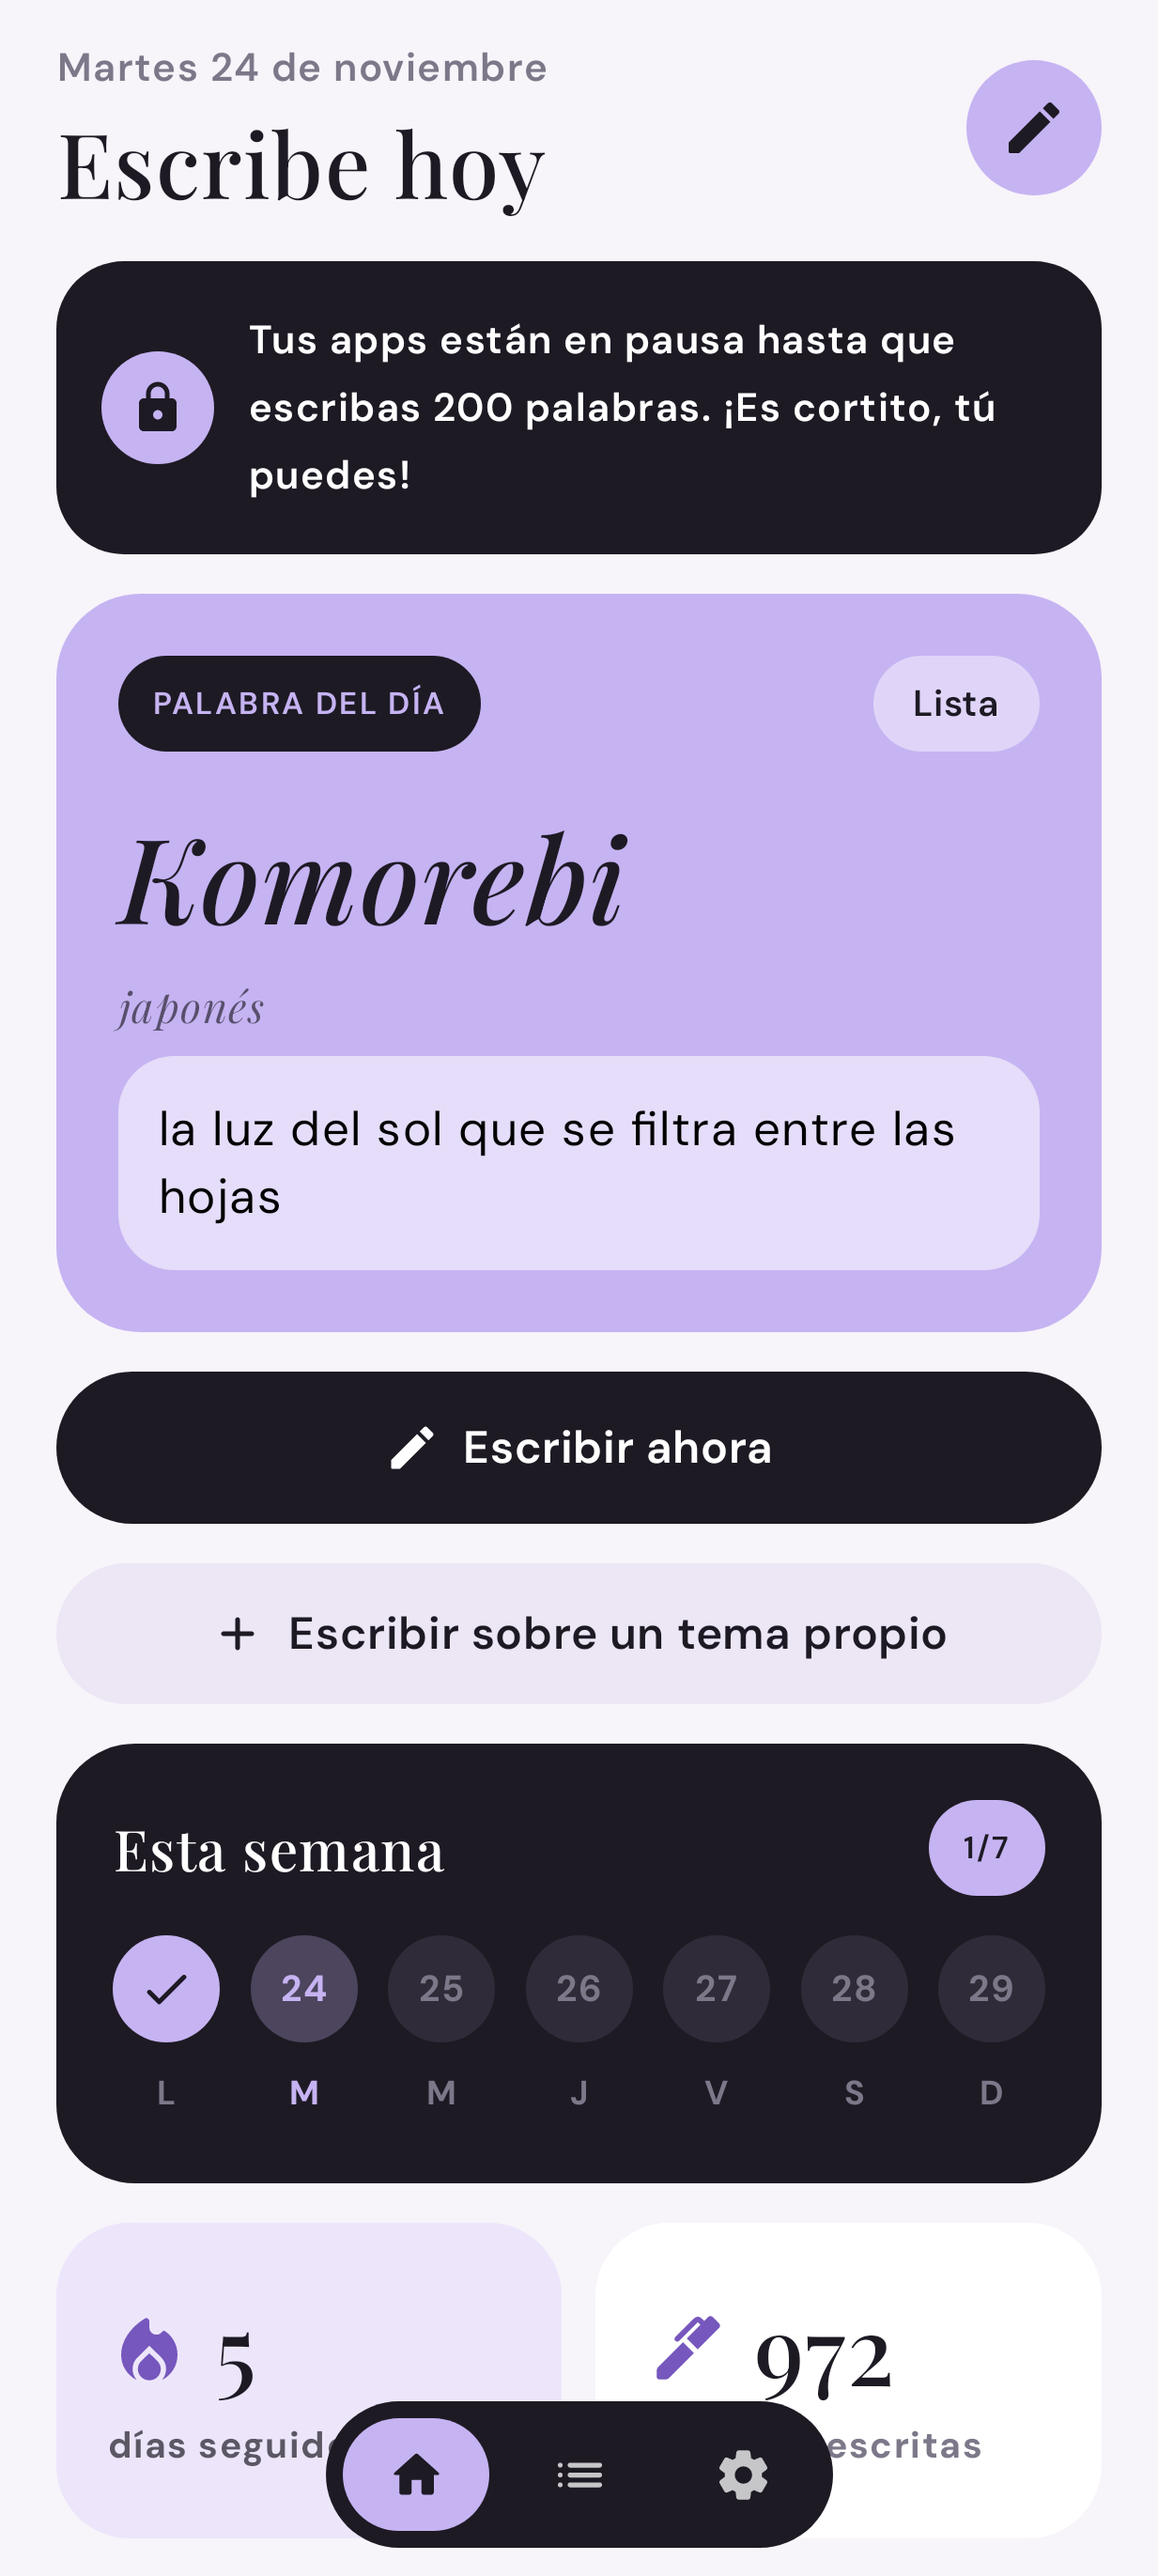
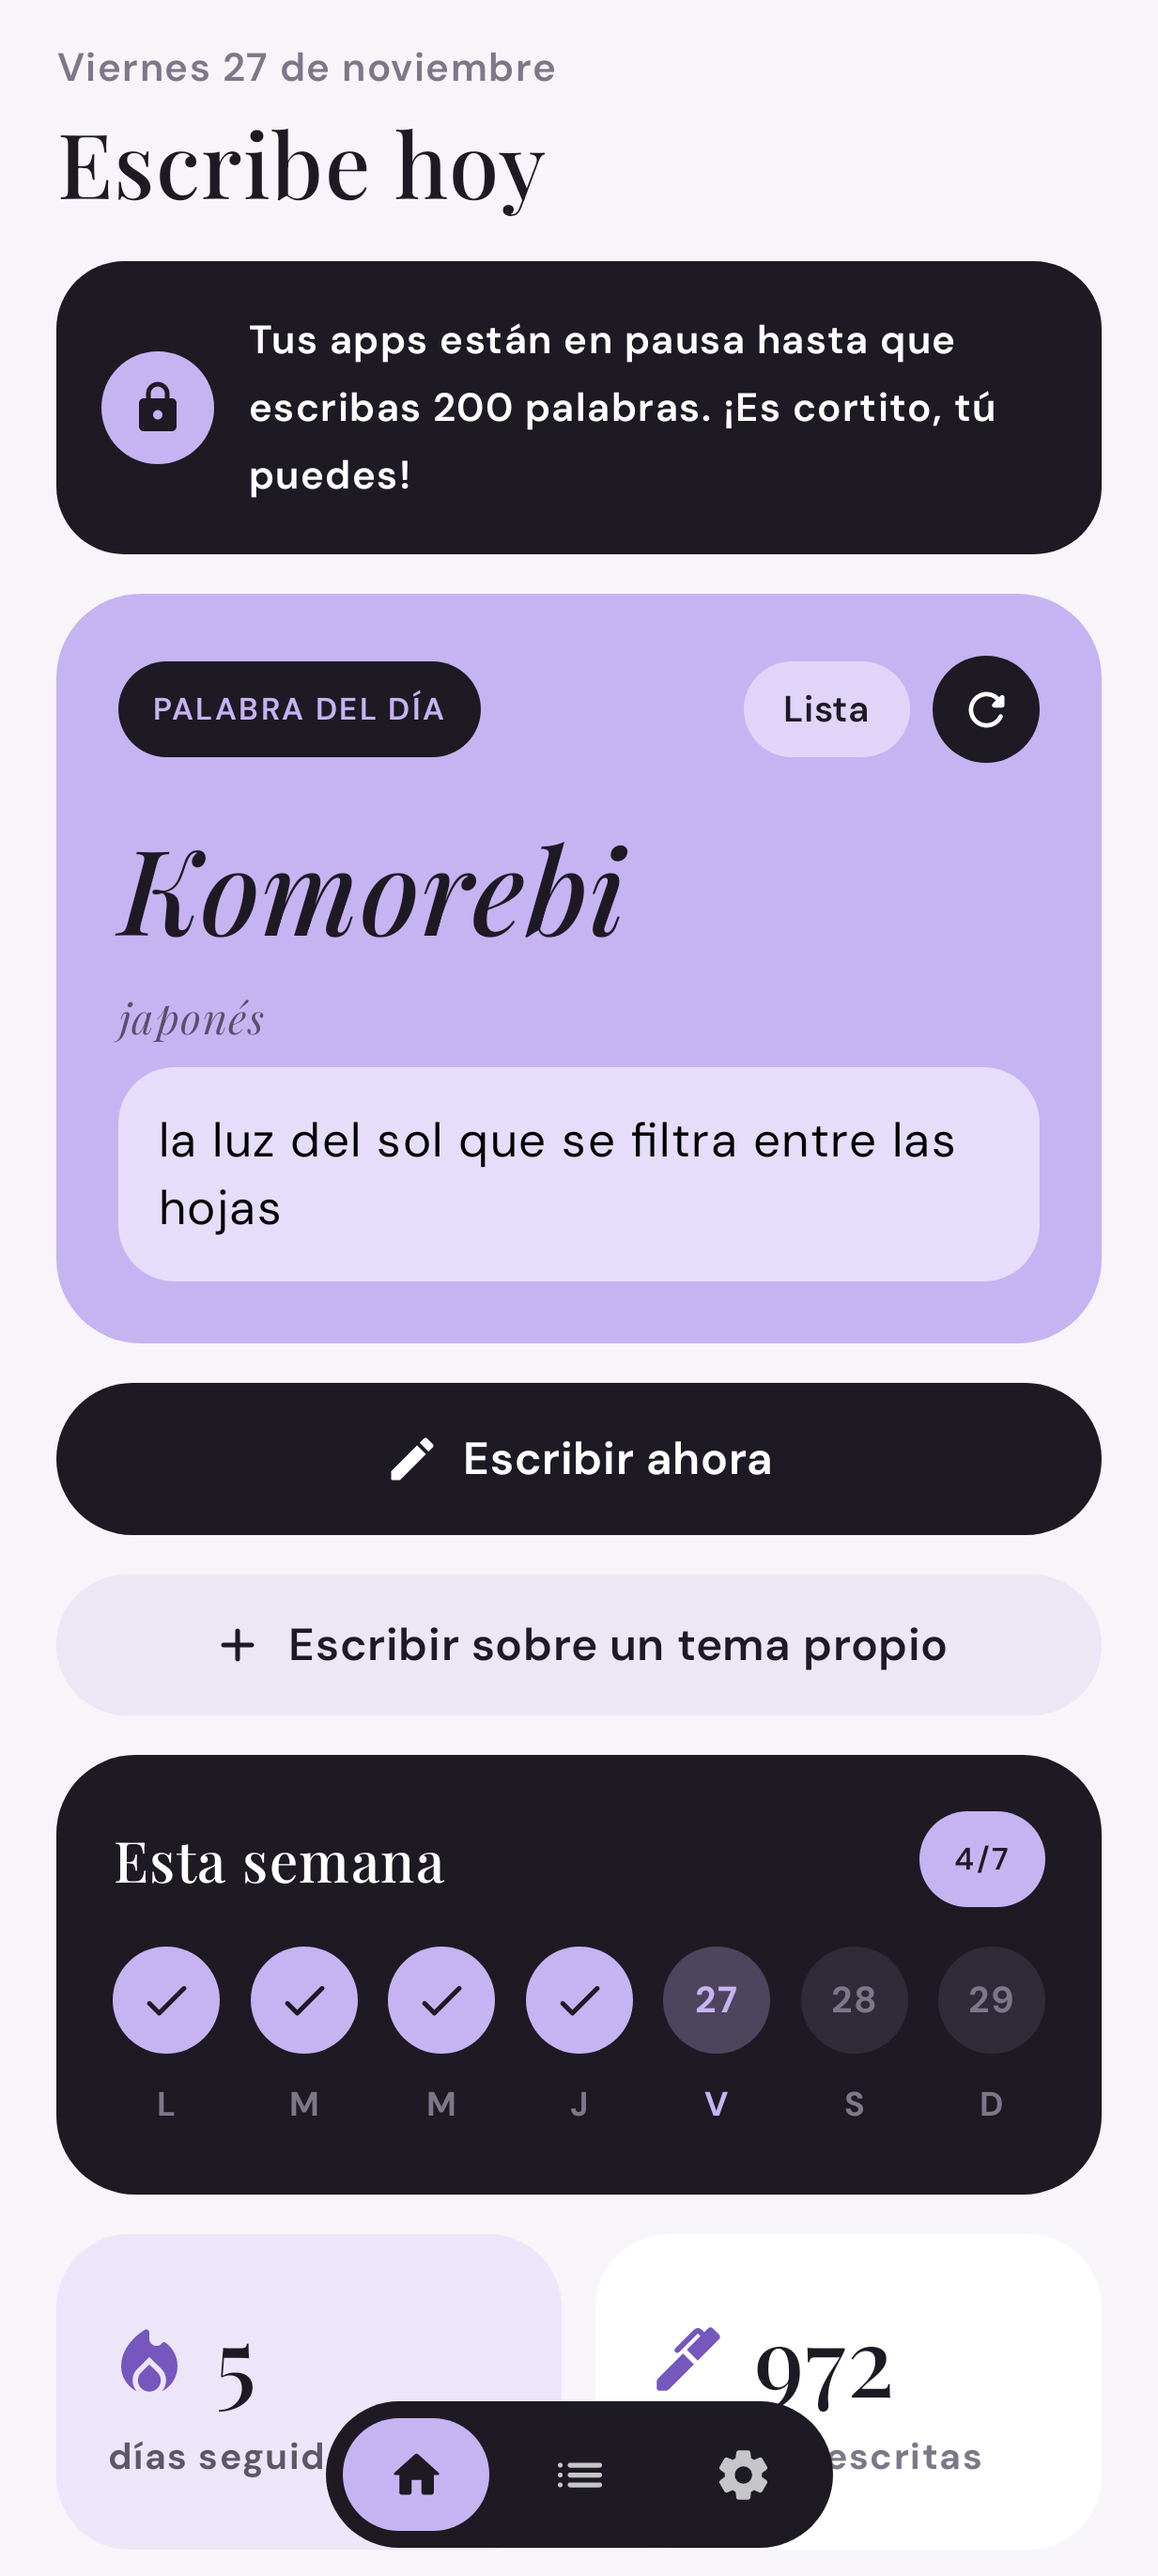
docs: tabla de retos, guía del bloqueo en Xiaomi y capturas nuevas
El README explica cómo funciona el bloqueo de apps distractoras, con una
mini guía para Xiaomi, Redmi y POCO, y resume en una tabla los tipos de
reto y de dónde sale cada uno.

Capturas regeneradas con lo nuevo (tiempo de la historia, «?» del
bloqueo, Lista y rehacer con el día terminado) y dos más: el tema propio
y «Tu musa».

diff --git a/app/src/test/java/com/escribe/diario/ScreenshotTest.kt b/app/src/test/java/com/escribe/diario/ScreenshotTest.kt
@@ -7,6 +7,8 @@ import androidx.compose.foundation.layout.fillMaxSize
 import androidx.compose.ui.Alignment
 import androidx.compose.ui.Modifier
 import androidx.compose.ui.test.junit4.createComposeRule
+import androidx.compose.ui.test.onNodeWithText
+import androidx.compose.ui.test.performClick
 import androidx.test.core.app.ApplicationProvider
 import com.github.takahirom.roborazzi.captureScreenRoboImage
 import org.junit.Before
@@ -53,7 +55,7 @@ Había practicado mil formas de decirlo, pero ahora, bajo ese temblor dorado de 
         store.addEntry("Mi OC en la lluvia", "", "", "x ".repeat(120), cover("rain.jpg"), true, t.minusDays(3), 3)
         store.addEntry("Kintsugi", "japonés", "Una amistad rota que se arregla.", "x ".repeat(180), cover("cups.jpg"), false, t.minusDays(2), 4)
         store.addEntry("Saudade", "portugués", "Extrañar un lugar al que no se puede volver.", "x ".repeat(312), cover("sea.jpg"), false, t.minusDays(1), 5)
-        if (includeToday) store.addEntry("Komorebi", "japonés", prompt.theme, sample, cover("forest.jpg"), false, t, 6)
+        if (includeToday) store.addEntry("Komorebi", "japonés", prompt.theme, sample, cover("forest.jpg"), false, t, 6, seconds = 754)
         store.minWords = 200
     }
 
@@ -118,13 +120,27 @@ Había practicado mil formas de decirlo, pero ahora, bajo ese temblor dorado de 
 
     @Test fun f_leer() { seed(true); shot("6_leer") { ReadScreen(store, 6, {}, {}) } }
 
+    @Test fun a2_tema_propio() { seed(false)
+        rule.setContent { EscribeTheme { Box(Modifier.fillMaxSize().background(C.Bg)) { HomeScreen(store, prompt, false, false, 0, {}, {}, {}, {}) } } }
+        rule.waitForIdle()
+        rule.mainClock.autoAdvance = false   // con el diálogo abierto la pantalla nunca queda quieta: el reloj se avanza a mano
+        rule.onNodeWithText("Escribir sobre un tema propio").performClick()
+        rule.mainClock.advanceTimeBy(1000)
+        captureScreenRoboImage("build/shots/1h_tema_propio.png")
+    }
+
+    @Config(qualifiers = "w411dp-h1950dp-xxhdpi")
+    @Test fun h_tu_musa() { seed(true); store.interests = "fantasía, misterio y un poco de romance"; shot("8_tu_musa") {
+        MusaScreen(store) {}
+    } }
+
     @Config(qualifiers = "w411dp-h1500dp-xxhdpi")
     @Test fun g2_ajustes_claude() { seed(true); store.useClaude = true; shot("7b_ajustes_con_claude") {
         SettingsScreen(store) {}
     } }
 
     @Config(qualifiers = "w411dp-h1500dp-xxhdpi")
-    @Test fun g_ajustes() { seed(true); shot("7_ajustes") {
+    @Test fun g_ajustes() { seed(true); BlockerService.connected = true; shot("7_ajustes") {
         Box(Modifier.fillMaxSize()) { SettingsScreen(store) {}; BottomBar(Tab.SETTINGS, Modifier.align(Alignment.BottomCenter)) {} }
     } }
 }

diff --git a/README.md b/README.md
@@ -1,15 +1,34 @@
 # soseol
 
-App de Android para escribir un poquito cada día. Una IA que corre **en tu teléfono** te da un reto (una palabra de otro idioma, una frase o un tema) y escribes entre un mínimo y un máximo de palabras.
+App de Android para escribir relatos, historias, fanfics cortos cada dia. Se utiliza una IA local, API o una lista en el caso de palabras: para ideas de escritura, pero tambien puedes escribir libremente una idea propia. Se escribe un minimo y maximo de palabras, esto para tener una meta alcanzable. Puedes bloquear aplicaciones distractoras en caso de aun no haber escrito nada dada cierta hora. 
 
 ![Pantallas](capturas/portada.png)
 
 ## Qué hace
 
-- Reto del día al azar: palabra, frase o tema.
+- Reto del día al azar: palabra, frase, tema, etc.
 - Contador de palabras con anillo, mínimo y máximo.
 - Historias con portada, historial y racha.
 - Bloquea las apps que elijas a partir de cierta hora si no has escrito.
+- Cuenta cuánto tardaste en cada historia (solo mientras escribes).
+
+## Retos
+
+Cada día sale uno al azar entre los que tengas activados. En Ajustes → Tu musa puedes apagar los que no quieras y elegir de dónde sale cada uno: la **lista** hecha a mano o la **musa** (la IA). Nunca se repite algo que ya usaste en una historia.
+
+| Reto | Qué te da | Sale de |
+|---|---|---|
+| Palabra | Una palabra de otro idioma o poco común, con su significado | Lista |
+| Palabra japonesa | Una palabra en japonés y qué significa | Lista |
+| Frase | Una frase corta; si es de otro idioma, con su traducción | Lista |
+| Tema | Un tropo, universo alterno o situación | Musa |
+| Idea | Una premisa en una sola frase | Musa |
+| Idea en 10 palabras | Una premisa en exactamente 10 palabras | Musa |
+| Idea en 5 palabras | Una premisa en exactamente 5 palabras | Musa |
+| Tres palabras raras | Tres palabras poco comunes del español que debes usar | Lista |
+| Tres palabras al azar | Tres palabras cualquiera que debes usar | Musa |
+
+Las palabras salen por defecto de la lista porque los modelos del teléfono a veces se equivocan al darlas de memoria.
 
 ## IA
 
@@ -30,4 +49,27 @@ O desde la terminal:
 ./gradlew installDebug
 ```
 
-Para el bloqueo de apps: Ajustes de Android → Accesibilidad → soseol → Activar.
+## Bloqueo de apps distractoras
+
+A partir de la hora que elijas, si todavía no escribes tu historia del día, al abrir una de las apps que marcaste (Instagram, TikTok, X…) se abre soseol encima. Cuando llegas al mínimo de palabras, quedan libres el resto de ese día. Al día siguiente, desde la misma hora, se vuelven a bloquear hasta que escribas.
+
+Para activarlo: Ajustes de Android → Accesibilidad → Apps instaladas → soseol → Activar. El permiso solo se usa para saber qué app está al frente; la app no lee lo que hay en la pantalla.
+
+En Ajustes → Bloqueo de apps verás si está **Funcionando** o **Desconectado**. El **?** de esa sección lo explica.
+
+### En Xiaomi, Redmi y POCO (MIUI / HyperOS)
+
+Estos teléfonos cierran a la fuerza las apps al limpiar recientes, y con eso se desconecta el bloqueo aunque siga activado en Accesibilidad. Para evitarlo:
+
+1. **Candado en recientes:** abre recientes, deja presionada la tarjeta de soseol y toca el candado.
+2. **Batería:** Ajustes → Apps → Administrar apps → soseol → Ahorro de batería → **Sin restricciones**.
+3. **Inicio automático:** Seguridad → Apps → Permisos → Inicio automático → activa soseol.
+4. Si en soseol dice **Desconectado**: Accesibilidad → soseol, apágalo y vuelve a prenderlo.
+
+Si las opciones 2 o 3 no aparecen para soseol (pasa con apps instaladas fuera de la tienda), se pueden activar desde la computadora con el teléfono conectado por USB:
+
+```bash
+adb shell dumpsys deviceidle whitelist +com.soseol.app          # sin límite de batería
+adb shell cmd appops set com.soseol.app RUN_ANY_IN_BACKGROUND allow
+adb shell cmd appops set com.soseol.app 10008 allow             # inicio automático de Xiaomi
+```
